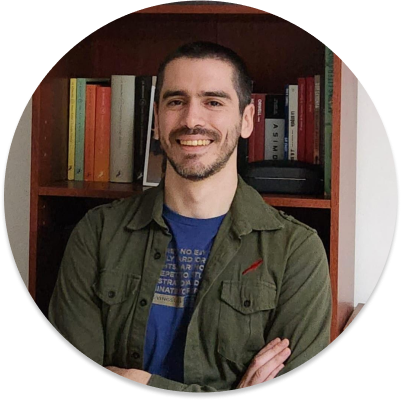
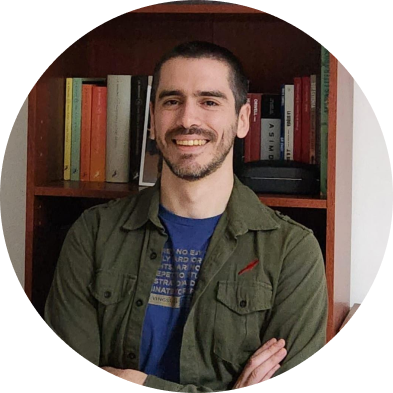
profile picture changed

diff --git a/src/components/Header.tsx b/src/components/Header.tsx
@@ -21,7 +21,7 @@ function Header() {
           <a href="https://github.com/enrihg" target="_blank" className="flex justify-center items-center w-10 h-10 border-2 border-600 hover:border-700 active:border-800 dark:border-400 dark:hover:border-500 dark:active:border-600 rounded-full fill-600 hover:fill-700 active:fill-800 dark:fill-400 dark:hover:fill-500 dark:active:fill-600 "><Github className={"fill-inherit"} width={20} height={20} /></a>
         </div>
       </div>
-      <img className="mx-auto sm:mx-0 sm:mt-4 max-w-[343px] sm:w-[220px] lg:w-[260px] xl:w-[300px] 2xl:w-[340px] sm:h-[220px] lg:h-[260px] xl:h-[300px] 2xl:h-[340px] dark:border-[1px] dark:border-500 p-1 rounded-full" src={profile} alt="profile picture" />
+      <img className="mx-auto sm:mx-0 sm:mt-4 max-w-[300px] sm:w-[220px] lg:w-[260px] xl:w-[300px] 2xl:w-[340px] sm:h-[220px] lg:h-[260px] xl:h-[300px] 2xl:h-[340px] dark:border-[1px] dark:border-500 p-1 rounded-full" src={profile} alt="profile picture" />
     </header>
   )
 }
